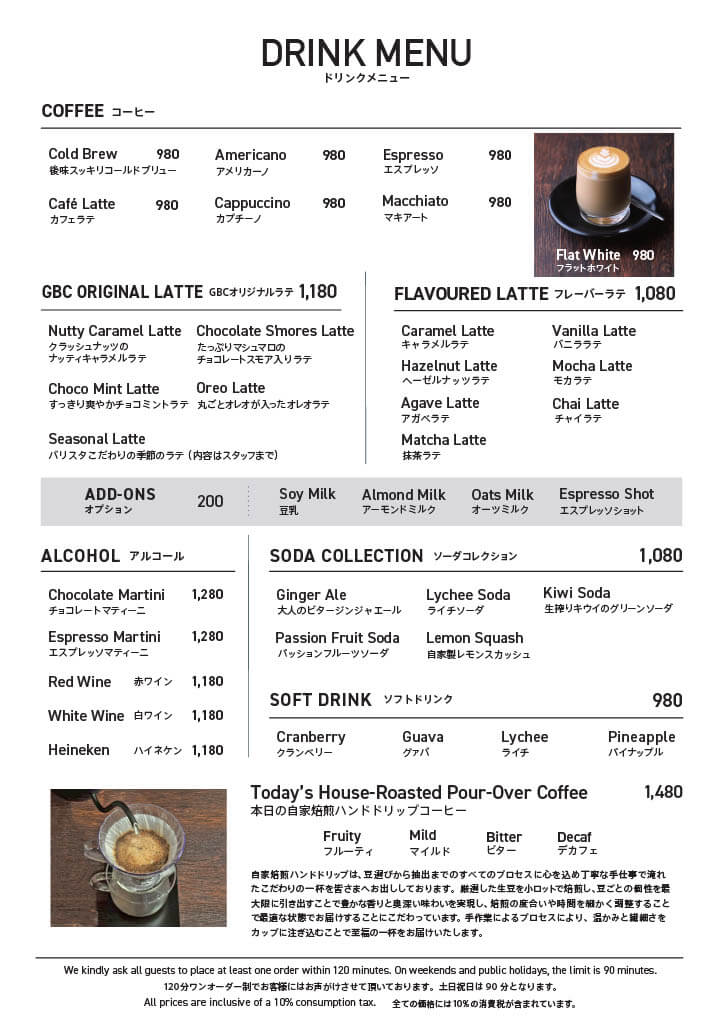
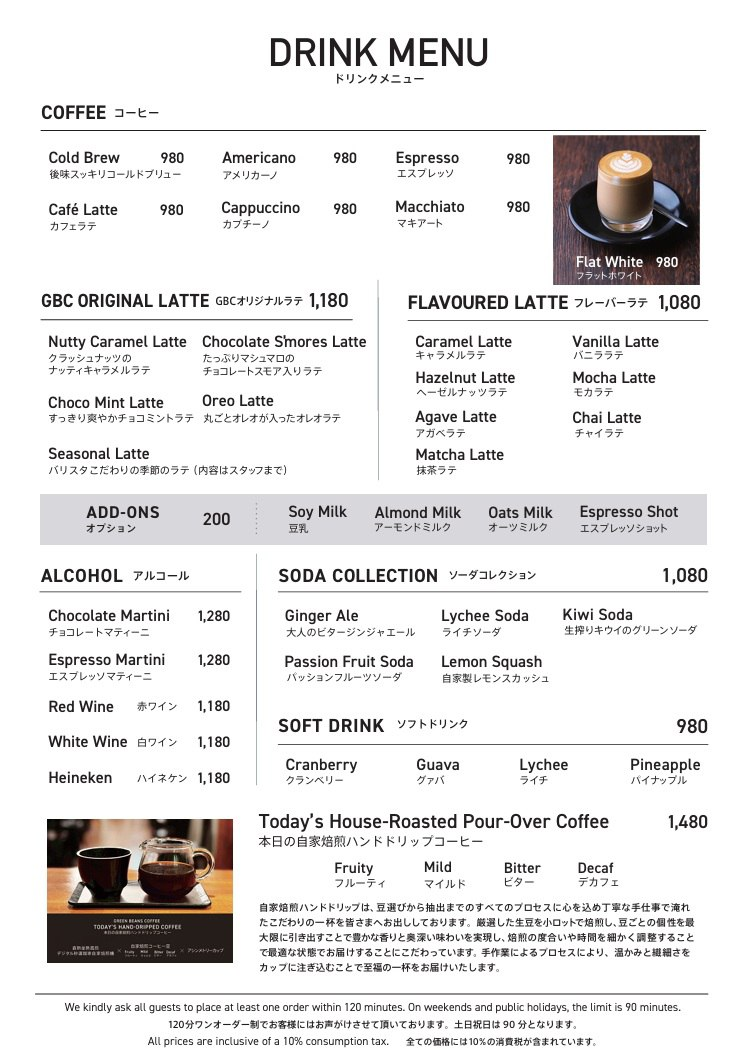
Refactor image naming: remove dates for easier monthly updates
- Rename event flyers to generic names (event-roasting.jpg, event-handdrip.jpg)
- Rename GBC Magazine images to position-based names (magazine-latest.jpg, magazine-back-01.jpg ~ magazine-back-06.jpg)
- Update HTML image paths to use new filenames
- Update menu page images (pages 1, 7, 8)
- Future updates only require file replacement, no HTML edits needed

diff --git a/public/index.html b/public/index.html
@@ -122,8 +122,8 @@
   <section id="hero" class="relative h-screen flex items-center justify-center overflow-hidden">
     <!-- Background Images with Auto-switching (2 layers for smooth transition) -->
     <div class="absolute inset-0 z-0">
-      <img id="hero-bg-1" src="/assets/images/hero_bg-1.jpg" alt="Green Beans Coffee 北参道のペットフレンドリーな店内 - 温かみのあるカフェ空間" class="absolute inset-0 w-full h-full object-cover transition-opacity duration-[4000ms] ease-in-out">
-      <img id="hero-bg-2" src="/assets/images/hero_bg-2.jpg" alt="Green Beans Coffee 自家焙煎コーヒー専門店の落ち着いた雰囲気" class="absolute inset-0 w-full h-full object-cover opacity-0 transition-opacity duration-[4000ms] ease-in-out">
+      <img id="hero-bg-1" src="/assets/images/hero_bg-1.jpg" alt="北参道・千駄ヶ谷にあるコーヒー専門店Green Beans Coffee。世界各国から厳選した約30種類のコーヒー豆を自家焙煎し、気分や好みに合わせた一杯を提供。落ち着いた空間で過ごせるサードプレイスとして親しまれています。" class="absolute inset-0 w-full h-full object-cover transition-opacity duration-[4000ms] ease-in-out">
+      <img id="hero-bg-2" src="/assets/images/hero_bg-2.jpg" alt="北参道・千駄ヶ谷のコーヒー専門店Green Beans Coffee。世界各国から厳選した30種類の豆を自家焙煎し、静かで温かみのある店内で提供。落ち着いた雰囲気の中、心を整えるサードプレイスとして親しまれています。" class="absolute inset-0 w-full h-full object-cover opacity-0 transition-opacity duration-[4000ms] ease-in-out">
       <div class="absolute inset-0 bg-black/40"></div>
     </div>
 
@@ -170,8 +170,8 @@
       <div class="grid md:grid-cols-2 gap-16 items-stretch">
         <!-- Left: Images -->
         <div data-aos="fade-right" class="flex flex-col gap-6">
-          <img src="/assets/images/about-shop-front.jpg" alt="Green Beans Coffee 店名看板のない店舗外観 - 北参道・千駄ヶ谷ダガヤサンドウエリアの隠れ家カフェ" class="w-full flex-1 rounded-lg shadow-lg object-cover" loading="lazy" decoding="async">
-          <img src="/assets/images/about-interior.jpg" alt="Green Beans Coffee ペットフレンドリーな温かみのある店内 - 自家焙煎コーヒーを楽しめる空間" class="w-full flex-1 rounded-lg shadow-lg object-cover" loading="lazy" decoding="async">
+          <img src="/assets/images/about-shop-front.jpg" alt="北参道・千駄ヶ谷の「ダガヤサンドウ」エリアに佇む、看板のない隠れ家カフェGreen Beans Coffee。静かな路地に溶け込む外観が特徴で、知る人ぞ知るコーヒー専門店として落ち着いた時間を提供しています。" class="w-full flex-1 rounded-lg shadow-lg object-cover" loading="lazy" decoding="async">
+          <img src="/assets/images/about-interior.jpg" alt="北参道・千駄ヶ谷のコーヒー専門店Green Beans Coffee。グルテンフリーランチを提供し、店内はペット同伴可能。落ち着いた空間で、愛犬と一緒に安心して食事と自家焙煎コーヒーを楽しめます。" class="w-full flex-1 rounded-lg shadow-lg object-cover" loading="lazy" decoding="async">
         </div>
 
         <!-- Right: Basic Info Table -->
@@ -315,7 +315,7 @@
       <div class="grid md:grid-cols-3 gap-10">
         <!-- Coffee Card -->
         <div class="bg-white rounded-lg shadow-lg overflow-hidden" data-aos="fade-up">
-          <img src="/assets/images/menu-coffee.jpg" alt="ハンドドリップコーヒー" class="w-full h-64 object-cover" loading="lazy" decoding="async">
+          <img src="/assets/images/menu-coffee.jpg" alt="北参道・千駄ヶ谷のコーヒー専門店Green Beans Coffee。自家焙煎コーヒーを一杯ずつ丁寧にハンドドリップで提供し、その日の気分や好みに合わせた味わいを楽しめます。学びと発見のある一杯が魅力です。" class="w-full h-64 object-cover" loading="lazy" decoding="async">
           <div class="p-6">
             <h3 class="text-2xl font-bold mb-4 text-primary">コーヒー</h3>
             
@@ -326,7 +326,7 @@
 
         <!-- Food Card -->
         <div class="bg-white rounded-lg shadow-lg overflow-hidden" data-aos="fade-up" data-aos-delay="100">
-          <img src="/assets/images/menu-focaccia.jpg" alt="グルテンフリーワンプレートランチ" class="w-full h-64 object-cover" loading="lazy" decoding="async">
+          <img src="/assets/images/menu-focaccia.jpg" alt="北参道・千駄ヶ谷のGreen Beans Coffeeでは、グルテンフリー対応のセレクトワンプレートランチを提供。体に優しい食材を使用し、栄養バランスにも配慮。自家焙煎コーヒーとともに安心して楽しめるランチです。" class="w-full h-64 object-cover" loading="lazy" decoding="async">
           <div class="p-6">
             <h3 class="text-2xl font-bold mb-4 text-primary">フード</h3>
             <p class="leading-relaxed">Green Beans Coffeeに来たらぜひ食べてほしいのがグルテンフリーワンプレートランチ。毎朝店内で焼いている米粉の自家製フォカッチャとサラダがついていて、メインとサイドディッシュを選べます。ランチ後は15時までドリンクメニューが半額で注文できるのもうれしい。</p>
@@ -335,7 +335,7 @@
 
         <!-- Sweets Card -->
         <div class="bg-white rounded-lg shadow-lg overflow-hidden" data-aos="fade-up" data-aos-delay="200">
-          <img src="/assets/images/menu-sweets.jpg" alt="スイーツ" class="w-full h-64 object-cover" loading="lazy" decoding="async">
+          <img src="/assets/images/menu-sweets.jpg" alt="北参道・千駄ヶ谷のGreen Beans Coffeeでは、自家製スイーツやグルテンフリー対応のスイーツメニューを提供。素材にこだわり、体に優しい甘さが特徴。自家焙煎コーヒーと相性の良いデザートが楽しめます。" class="w-full h-64 object-cover" loading="lazy" decoding="async">
           <div class="p-6">
             <h3 class="text-2xl font-bold mb-4 text-primary">スイーツ</h3>
             <p class="leading-relaxed">バリスタが丁寧に作る米粉のしっとりチョコブラウニー（グルテンフリー）、彩り豊かな自家製スイーツプレート、アップルパイのキャラメルアイス添え、北海道根釧地区の良質なミルクを使用したアイスデザートなど、こだわりのコーヒーと相性抜群の魅力的なスイーツが揃っています。</p>
@@ -406,7 +406,7 @@
       </button>
 
       <!-- Menu Image -->
-      <img id="menuModalImage" src="" alt="メニュー" class="w-full h-auto rounded-lg shadow-2xl">
+      <img id="menuModalImage" src="" alt="北参道・千駄ヶ谷のGreen Beans Coffeeのメニュー詳細" class="w-full h-auto rounded-lg shadow-2xl">
 
       <!-- Page Counter -->
       <div class="text-center mt-4 text-white">
@@ -472,9 +472,9 @@
         <div class="bg-background rounded-xl shadow-md p-8 md:p-10" data-aos="fade-up">
           <h3 class="text-lg md:text-2xl font-bold mb-8 text-primary text-center tracking-tight">焙煎体験イベント</h3>
 
-          <div class="flex flex-col xl:grid xl:grid-cols-3 gap-8 xl:items-start">
+          <div class="flex flex-col lg:grid lg:grid-cols-3 gap-8 lg:items-start">
             <!-- 説明文 -->
-            <div class="w-full xl:h-full flex flex-col">
+            <div class="w-full lg:h-full flex flex-col">
               <p class="text-base md:text-lg leading-relaxed">
                 Green Beans Coffeeで2025年から毎月開催されているイベント。30種類の豆から自分だけのオリジナルブレンドを作ることができます。焙煎機を使って自分の手で焙煎する体験はコーヒーへの愛着を一気に深めてくれます。<br><br>
                 参加者からは「選んだ豆が我が子のように可愛く思えた」「豆の香りに包まれて幸せだった」「カッコイイ焙煎機での体験が最高」といった声が寄せられているのが店内掲示物からわかります。<br><br>
@@ -483,10 +483,10 @@
             </div>
 
             <!-- イベントチラシ -->
-            <div class="w-full xl:h-full flex flex-col">
-              <img src="/assets/images/event-roasting-20260123.jpg" alt="焙煎体験イベントチラシ" class="w-full rounded-lg shadow-lg" loading="lazy" decoding="async">
+            <div class="w-full lg:h-full flex flex-col">
+              <img src="/assets/images/event-roasting.jpg" alt="北参道・千駄ヶ谷のGreen Beans Coffeeでは、店内に設置した焙煎機を使った焙煎体験イベントを開催。コーヒー豆が仕上がる工程を学びながら、体験型で楽しめるコーヒー専門店です。" class="w-full rounded-lg shadow-lg" loading="lazy" decoding="async">
               <!-- 装飾 - Desktop only -->
-              <div class="hidden xl:flex flex-1 items-end pb-4 mt-4">
+              <div class="hidden lg:flex flex-1 items-end pb-4 mt-4">
                 <div class="flex items-center justify-center gap-3 text-secondary opacity-40 w-full">
                   <svg xmlns="http://www.w3.org/2000/svg" width="24" height="24" viewBox="0 0 24 24" fill="none" stroke="currentColor" stroke-width="2" stroke-linecap="round" stroke-linejoin="round" class="lucide lucide-coffee"><path d="M10 2v2"/><path d="M14 2v2"/><path d="M16 8a1 1 0 0 1 1 1v8a4 4 0 0 1-4 4H7a4 4 0 0 1-4-4V9a1 1 0 0 1 1-1h14a4 4 0 1 1 0 8h-1"/><path d="M6 2v2"/></svg>
                   <div class="h-px bg-secondary flex-1 max-w-[80px]"></div>
@@ -498,9 +498,9 @@
             </div>
 
             <!-- YouTube動画 - Responsive aspect ratio -->
-            <div class="w-full xl:h-full flex flex-col">
+            <div class="w-full lg:h-full flex flex-col">
               <!-- タブレット/モバイル: サムネイル表示（クリックでモーダル） -->
-              <div class="xl:hidden relative w-full cursor-pointer group" style="padding-bottom: 56.25%;" onclick="openVideoModal('qnx6ruMMJgY', '焙煎体験イベント')">
+              <div class="lg:hidden relative w-full cursor-pointer group" style="padding-bottom: 56.25%;" onclick="openVideoModal('qnx6ruMMJgY', '焙煎体験イベント')">
                 <img src="https://img.youtube.com/vi/qnx6ruMMJgY/maxresdefault.jpg" alt="焙煎体験イベント動画サムネイル" class="absolute top-0 left-0 w-full h-full object-cover rounded-lg shadow-lg" loading="lazy" decoding="async">
                 <!-- 再生ボタンオーバーレイ -->
                 <div class="absolute inset-0 flex items-center justify-center">
@@ -512,7 +512,7 @@
                 </div>
               </div>
               <!-- デスクトップ: 9:16 -->
-              <div class="hidden xl:block relative w-full" style="padding-bottom: 177.78%; max-width: 315px; margin: 0 auto;">
+              <div class="hidden lg:block relative w-full" style="padding-bottom: 177.78%; max-width: 315px; margin: 0 auto;">
                 <iframe class="absolute top-0 left-0 w-full h-full rounded-lg shadow-lg" src="https://www.youtube.com/embed/qnx6ruMMJgY" title="焙煎体験イベント" frameborder="0" allow="accelerometer; autoplay; clipboard-write; encrypted-media; gyroscope; picture-in-picture; web-share" allowfullscreen loading="lazy"></iframe>
               </div>
             </div>
@@ -523,9 +523,9 @@
         <div class="bg-background rounded-xl shadow-md p-8 md:p-10" data-aos="fade-up">
           <h3 class="text-lg md:text-2xl font-bold mb-8 text-primary text-center tracking-tight">ハンドドリップ体験イベント</h3>
 
-          <div class="flex flex-col xl:grid xl:grid-cols-3 gap-8 xl:items-start">
+          <div class="flex flex-col lg:grid lg:grid-cols-3 gap-8 lg:items-start">
             <!-- 説明文 -->
-            <div class="w-full xl:h-full flex flex-col">
+            <div class="w-full lg:h-full flex flex-col">
               <p class="text-base md:text-lg leading-relaxed">
                 先日実際にこちらに参加してきました。バリスタの方が丁寧に教えてくれるので、初めてでも楽しくマスターできる内容です。お湯の温度や注ぎ方、抽出時間の違いで味がどう変わるか、実際に淹れながら体感できる点が良かったです。<br><br>
                 特に印象的だったのは友人と同じ豆で淹れたコーヒーを飲み比べた時間です。ほんの少しの淹れ方の違いで味わいが変わることに驚きました。豆の個性だけでなく淹れ手の個性まで表れるコーヒーの奥深さを実感できる体験でした。<br><br>
@@ -534,10 +534,10 @@
             </div>
 
             <!-- イベントチラシ -->
-            <div class="w-full xl:h-full flex flex-col">
-              <img src="/assets/images/event-handdrip-20260116.jpg" alt="ハンドドリップ体験イベントチラシ" class="w-full rounded-lg shadow-lg" loading="lazy" decoding="async">
+            <div class="w-full lg:h-full flex flex-col">
+              <img src="/assets/images/event-handdrip.jpg" alt="北参道・千駄ヶ谷のGreen Beans Coffeeでは、ハンドドリップによるコーヒーの淹れ方を体験しながら学べます。抽出の違いや味の変化を楽しめる、知識と発見のあるコーヒー体験が魅力です。" class="w-full rounded-lg shadow-lg" loading="lazy" decoding="async">
               <!-- 装飾 - Desktop only -->
-              <div class="hidden xl:flex flex-1 items-end pb-4 mt-4">
+              <div class="hidden lg:flex flex-1 items-end pb-4 mt-4">
                 <div class="flex items-center justify-center gap-3 text-secondary opacity-40 w-full">
                   <svg xmlns="http://www.w3.org/2000/svg" width="24" height="24" viewBox="0 0 24 24" fill="none" stroke="currentColor" stroke-width="2" stroke-linecap="round" stroke-linejoin="round" class="lucide lucide-coffee"><path d="M10 2v2"/><path d="M14 2v2"/><path d="M16 8a1 1 0 0 1 1 1v8a4 4 0 0 1-4 4H7a4 4 0 0 1-4-4V9a1 1 0 0 1 1-1h14a4 4 0 1 1 0 8h-1"/><path d="M6 2v2"/></svg>
                   <div class="h-px bg-secondary flex-1 max-w-[80px]"></div>
@@ -549,9 +549,9 @@
             </div>
 
             <!-- YouTube動画 - Responsive aspect ratio -->
-            <div class="w-full xl:h-full flex flex-col">
+            <div class="w-full lg:h-full flex flex-col">
               <!-- タブレット/モバイル: サムネイル表示（クリックでモーダル） -->
-              <div class="xl:hidden relative w-full cursor-pointer group" style="padding-bottom: 56.25%;" onclick="openVideoModal('QX1qbnKiYYg', 'ハンドドリップ体験イベント')">
+              <div class="lg:hidden relative w-full cursor-pointer group" style="padding-bottom: 56.25%;" onclick="openVideoModal('QX1qbnKiYYg', 'ハンドドリップ体験イベント')">
                 <img src="https://img.youtube.com/vi/QX1qbnKiYYg/maxresdefault.jpg" alt="ハンドドリップ体験イベント動画サムネイル" class="absolute top-0 left-0 w-full h-full object-cover rounded-lg shadow-lg" loading="lazy" decoding="async">
                 <!-- 再生ボタンオーバーレイ -->
                 <div class="absolute inset-0 flex items-center justify-center">
@@ -563,7 +563,7 @@
                 </div>
               </div>
               <!-- デスクトップ: 9:16 -->
-              <div class="hidden xl:block relative w-full" style="padding-bottom: 177.78%; max-width: 315px; margin: 0 auto;">
+              <div class="hidden lg:block relative w-full" style="padding-bottom: 177.78%; max-width: 315px; margin: 0 auto;">
                 <iframe class="absolute top-0 left-0 w-full h-full rounded-lg shadow-lg" src="https://www.youtube.com/embed/QX1qbnKiYYg" title="ハンドドリップ体験イベント" frameborder="0" allow="accelerometer; autoplay; clipboard-write; encrypted-media; gyroscope; picture-in-picture; web-share" allowfullscreen loading="lazy"></iframe>
               </div>
             </div>
@@ -578,9 +578,9 @@
           Green Beans Coffeeに行くとペット連れのお客さんをよく見かけます。店内にペットと一緒に入れるカフェってあまりないですよね。しかもここはペットOKなだけじゃなくてペットと一緒に来店したらチェキで撮影して店内の掲示板に飾ってくれます。ペット撮影会が定期的に開催されていて店内のチェキブースを見るとたくさんのペットちゃんの写真が貼られています。愛犬と一緒にゆっくりコーヒーを楽しみたい人にはぜひ一度訪れてほしい場所です。
         </p>
         <div class="grid grid-cols-1 sm:grid-cols-2 md:grid-cols-3 gap-8">
-          <img src="/assets/images/experience-pet-2.jpg" alt="ペットフレンドリー2" class="w-full h-80 md:h-96 object-cover rounded-lg shadow-lg" loading="lazy" decoding="async" data-aos="fade-up">
-          <img src="/assets/images/experience-pet-1.jpg" alt="ペットフレンドリー1" class="w-full h-80 md:h-96 object-cover rounded-lg shadow-lg" loading="lazy" decoding="async" data-aos="fade-up" data-aos-delay="150">
-          <img src="/assets/images/experience-pet-3.jpg" alt="ペットフレンドリー3" class="w-full h-80 md:h-96 object-cover rounded-lg shadow-lg" loading="lazy" decoding="async" data-aos="fade-up" data-aos-delay="300">
+          <img src="/assets/images/experience-pet-2.jpg" alt="北参道・千駄ヶ谷のGreen Beans Coffeeは、店内ペット同伴可能なペットフレンドリーカフェ。落ち着いたサードプレイス空間で、愛犬と一緒に自家焙煎コーヒーをゆったり楽しめます。ペット撮影会イベントも定期的に開催。" class="w-full h-80 md:h-96 object-cover rounded-lg shadow-lg" loading="lazy" decoding="async" data-aos="fade-up">
+          <img src="/assets/images/experience-pet-1.jpg" alt="北参道・千駄ヶ谷のGreen Beans Coffeeは、店内ペット同伴可能なペットフレンドリーカフェ。落ち着いたサードプレイス空間で、愛犬と一緒に自家焙煎コーヒーをゆったり楽しめます。" class="w-full h-80 md:h-96 object-cover rounded-lg shadow-lg" loading="lazy" decoding="async" data-aos="fade-up" data-aos-delay="150">
+          <img src="/assets/images/experience-pet-3.jpg" alt="北参道・千駄ヶ谷のGreen Beans Coffeeは、店内ペット同伴可能なペットフレンドリーカフェ。来店してくれたペットちゃん達が見れるたチェキブース。" class="w-full h-80 md:h-96 object-cover rounded-lg shadow-lg" loading="lazy" decoding="async" data-aos="fade-up" data-aos-delay="300">
         </div>
       </div>
 
@@ -705,9 +705,9 @@
 
         <!-- Diary Entry #4 -->
         <div class="bg-background p-6 rounded-lg shadow" data-aos="fade-up">
-          <h3 class="text-xl font-bold mb-2 text-primary">訪問記 #4 | 2023年5月5日:<br class="sm:hidden"> 姪っ子を熱烈なGBCファンにしたグリルチキンソテー</h3>
+          <h3 class="text-xl font-bold mb-2 text-primary">訪問記 #4 | 2023年5月5日:<br class="sm:hidden"> 姪っ子を熱烈なGBCファンにしたグリルチキン</h3>
           <p class="leading-relaxed">
-            地元から妹と姪っ子が上京してきたのでグリーンビーンズコーヒーに連れて行きました。姪っ子はこの日食べたグリルチキンソテーがものすごく気に入ったようで、私が地元に帰る度に「グリーンビーンズにまた行きたい」と口癖のように言うようになりました。その後、推しのイベントで上京するとGreen Beans Coffeeに行ってはグルテンフリーワンプレートランチのグリルチキンソテーを食べているとのこと。おそらくGreen Beans Coffeeの常連さんの中では一番遠いところから通っているファンだと思います。
+            地元から妹と姪っ子が上京してきたのでグリーンビーンズコーヒーに連れて行きました。姪っ子はこの日食べたグリルチキンがものすごく気に入ったようで、私が地元に帰る度に「グリーンビーンズにまた行きたい」と口癖のように言うようになりました。その後、推しのイベントで上京するとGreen Beans Coffeeに行ってはグルテンフリーワンプレートランチのグリルチキンを食べているとのこと。おそらくGreen Beans Coffeeの常連さんの中では一番遠いところから通っているファンだと思います。
           </p>
         </div>
 
@@ -742,8 +742,8 @@
       <!-- Latest Issue -->
       <div class="w-full max-w-2xl mx-auto mb-16 px-4 sm:px-0" data-aos="zoom-in">
         <h3 class="text-2xl font-bold mb-4 text-center text-primary">最新号: 2026年1月</h3>
-        <div class="relative group cursor-pointer" onclick="openModal('/assets/images/GBCMagagine_202601.jpg')">
-          <img src="/assets/images/GBCMagagine_202601.jpg" alt="GBCマガジン2026年1月号" class="w-full rounded-lg shadow-lg group-hover:shadow-xl transition-all duration-300 group-hover:scale-105" loading="lazy" decoding="async">
+        <div class="relative group cursor-pointer" onclick="openModal('/assets/images/magazine-latest.jpg')">
+          <img src="/assets/images/magazine-latest.jpg" alt="北参道・千駄ヶ谷のGreen Beans Coffeeでは、地域密着型の月刊誌「GBCマガジン」を制作。店内掲示のフリーペーパーとして無料配布し、地域情報やコーヒー文化を発信しています。こちらが最新号です。" class="w-full rounded-lg shadow-lg group-hover:shadow-xl transition-all duration-300 group-hover:scale-105" loading="lazy" decoding="async">
           <!-- Hover Overlay with Zoom Icon -->
           <div class="absolute inset-0 bg-black/0 group-hover:bg-black/20 transition-all duration-300 rounded-lg flex items-center justify-center">
             <svg xmlns="http://www.w3.org/2000/svg" width="64" height="64" viewBox="0 0 24 24" fill="none" stroke="white" stroke-width="2" stroke-linecap="round" stroke-linejoin="round" class="opacity-0 group-hover:opacity-100 transition-opacity duration-300">
@@ -761,8 +761,8 @@
       <div class="max-w-4xl mx-auto">
         <h3 class="text-xl font-bold mb-6 text-center text-primary">バックナンバー</h3>
         <div class="grid grid-cols-2 sm:grid-cols-2 md:grid-cols-3 gap-4">
-          <div class="relative group cursor-pointer" onclick="openModal('/assets/images/GBCMagagine_202512.jpg')">
-            <img src="/assets/images/GBCMagagine_202512.jpg" alt="2025年12月号" class="w-full rounded shadow group-hover:shadow-lg transition-all duration-300 group-hover:scale-105" loading="lazy" decoding="async">
+          <div class="relative group cursor-pointer" onclick="openModal('/assets/images/magazine-back-01.jpg')">
+            <img src="/assets/images/magazine-back-01.jpg" alt="北参道・千駄ヶ谷のGreen Beans Coffeeが発行する「GBCマガジン」では、コーヒー情報をはじめ、健康・美容に役立つ内容や店舗・地域のイベント情報を掲載。店内で無料配布しています。" class="w-full rounded shadow group-hover:shadow-lg transition-all duration-300 group-hover:scale-105" loading="lazy" decoding="async">
             <div class="absolute inset-0 bg-black/0 group-hover:bg-black/20 transition-all duration-300 rounded flex items-center justify-center">
               <svg xmlns="http://www.w3.org/2000/svg" width="48" height="48" viewBox="0 0 24 24" fill="none" stroke="white" stroke-width="2" stroke-linecap="round" stroke-linejoin="round" class="opacity-0 group-hover:opacity-100 transition-opacity duration-300">
                 <circle cx="11" cy="11" r="8"></circle>
@@ -772,8 +772,8 @@
               </svg>
             </div>
           </div>
-          <div class="relative group cursor-pointer" onclick="openModal('/assets/images/GBCMagagine_202511.jpg')">
-            <img src="/assets/images/GBCMagagine_202511.jpg" alt="2025年11月号" class="w-full rounded shadow group-hover:shadow-lg transition-all duration-300 group-hover:scale-105" loading="lazy" decoding="async">
+          <div class="relative group cursor-pointer" onclick="openModal('/assets/images/magazine-back-02.jpg')">
+            <img src="/assets/images/magazine-back-02.jpg" alt="北参道・千駄ヶ谷のGreen Beans Coffeeが制作する月刊誌「GBCマガジン」。地域密着情報やイベント情報を掲載したフリーペーパーとして、店内で無料配布し、街と人をつなぐ情報発信を行っています。" class="w-full rounded shadow group-hover:shadow-lg transition-all duration-300 group-hover:scale-105" loading="lazy" decoding="async">
             <div class="absolute inset-0 bg-black/0 group-hover:bg-black/20 transition-all duration-300 rounded flex items-center justify-center">
               <svg xmlns="http://www.w3.org/2000/svg" width="48" height="48" viewBox="0 0 24 24" fill="none" stroke="white" stroke-width="2" stroke-linecap="round" stroke-linejoin="round" class="opacity-0 group-hover:opacity-100 transition-opacity duration-300">
                 <circle cx="11" cy="11" r="8"></circle>
@@ -783,8 +783,8 @@
               </svg>
             </div>
           </div>
-          <div class="relative group cursor-pointer" onclick="openModal('/assets/images/GBCMagagine_202510.jpg')">
-            <img src="/assets/images/GBCMagagine_202510.jpg" alt="2025年10月号" class="w-full rounded shadow group-hover:shadow-lg transition-all duration-300 group-hover:scale-105" loading="lazy" decoding="async">
+          <div class="relative group cursor-pointer" onclick="openModal('/assets/images/magazine-back-03.jpg')">
+            <img src="/assets/images/magazine-back-03.jpg" alt="北参道・千駄ヶ谷のGreen Beans Coffeeが制作する月刊誌「GBCマガジン」。コーヒーの健康効果やおすすめのコーヒーをコーヒー専門店の立場から情報発信しています。" class="w-full rounded shadow group-hover:shadow-lg transition-all duration-300 group-hover:scale-105" loading="lazy" decoding="async">
             <div class="absolute inset-0 bg-black/0 group-hover:bg-black/20 transition-all duration-300 rounded flex items-center justify-center">
               <svg xmlns="http://www.w3.org/2000/svg" width="48" height="48" viewBox="0 0 24 24" fill="none" stroke="white" stroke-width="2" stroke-linecap="round" stroke-linejoin="round" class="opacity-0 group-hover:opacity-100 transition-opacity duration-300">
                 <circle cx="11" cy="11" r="8"></circle>
@@ -794,8 +794,8 @@
               </svg>
             </div>
           </div>
-          <div class="relative group cursor-pointer" onclick="openModal('/assets/images/GBCMagagine_202509.jpg')">
-            <img src="/assets/images/GBCMagagine_202509.jpg" alt="2025年9月号" class="w-full rounded shadow group-hover:shadow-lg transition-all duration-300 group-hover:scale-105" loading="lazy" decoding="async">
+          <div class="relative group cursor-pointer" onclick="openModal('/assets/images/magazine-back-04.jpg')">
+            <img src="/assets/images/magazine-back-04.jpg" alt="2025年9月号" class="w-full rounded shadow group-hover:shadow-lg transition-all duration-300 group-hover:scale-105" loading="lazy" decoding="async">
             <div class="absolute inset-0 bg-black/0 group-hover:bg-black/20 transition-all duration-300 rounded flex items-center justify-center">
               <svg xmlns="http://www.w3.org/2000/svg" width="48" height="48" viewBox="0 0 24 24" fill="none" stroke="white" stroke-width="2" stroke-linecap="round" stroke-linejoin="round" class="opacity-0 group-hover:opacity-100 transition-opacity duration-300">
                 <circle cx="11" cy="11" r="8"></circle>
@@ -805,8 +805,8 @@
               </svg>
             </div>
           </div>
-          <div class="relative group cursor-pointer" onclick="openModal('/assets/images/GBCMagagine_202508.jpg')">
-            <img src="/assets/images/GBCMagagine_202508.jpg" alt="2025年8月号" class="w-full rounded shadow group-hover:shadow-lg transition-all duration-300 group-hover:scale-105" loading="lazy" decoding="async">
+          <div class="relative group cursor-pointer" onclick="openModal('/assets/images/magazine-back-05.jpg')">
+            <img src="/assets/images/magazine-back-05.jpg" alt="北参道・千駄ヶ谷のGreen Beans Coffeeの月刊フリーペーパー「GBCマガジン」。ダガヤサンドウの季節のおすすめスポット情報も盛り込んだ内容です。" class="w-full rounded shadow group-hover:shadow-lg transition-all duration-300 group-hover:scale-105" loading="lazy" decoding="async">
             <div class="absolute inset-0 bg-black/0 group-hover:bg-black/20 transition-all duration-300 rounded flex items-center justify-center">
               <svg xmlns="http://www.w3.org/2000/svg" width="48" height="48" viewBox="0 0 24 24" fill="none" stroke="white" stroke-width="2" stroke-linecap="round" stroke-linejoin="round" class="opacity-0 group-hover:opacity-100 transition-opacity duration-300">
                 <circle cx="11" cy="11" r="8"></circle>
@@ -816,8 +816,8 @@
               </svg>
             </div>
           </div>
-          <div class="relative group cursor-pointer" onclick="openModal('/assets/images/GBCMagagine_202507.jpg')">
-            <img src="/assets/images/GBCMagagine_202507.jpg" alt="2025年7月号" class="w-full rounded shadow group-hover:shadow-lg transition-all duration-300 group-hover:scale-105" loading="lazy" decoding="async">
+          <div class="relative group cursor-pointer" onclick="openModal('/assets/images/magazine-back-06.jpg')">
+            <img src="/assets/images/magazine-back-06.jpg" alt="北参道・千駄ヶ谷のGreen Beans Coffeeの月刊フリーペーパー「GBCマガジン」。コーヒー情報だけでなく店内で定期的に開催される体験イベントの様子など写真付きで掲載している楽しい月刊誌です。" class="w-full rounded shadow group-hover:shadow-lg transition-all duration-300 group-hover:scale-105" loading="lazy" decoding="async">
             <div class="absolute inset-0 bg-black/0 group-hover:bg-black/20 transition-all duration-300 rounded flex items-center justify-center">
               <svg xmlns="http://www.w3.org/2000/svg" width="48" height="48" viewBox="0 0 24 24" fill="none" stroke="white" stroke-width="2" stroke-linecap="round" stroke-linejoin="round" class="opacity-0 group-hover:opacity-100 transition-opacity duration-300">
                 <circle cx="11" cy="11" r="8"></circle>
@@ -966,7 +966,7 @@
             </svg>
           </summary>
           <div class="p-4 pt-0 text-text">
-            <p>私のおすすめはハンドドリップコーヒー。バリスタさんにその日の気分を伝えるとぴったりの一杯を選んでくれます。左右で厚みが違うアシンメトリーカップを試せるのも魅力。フードならグルテンフリーワンプレートランチ。メインとサイドディッシュとソースが選べますがメインのおすすめはグリルチキンソテー。皮がパリパリで病みつきです。</p>
+            <p>私のおすすめはハンドドリップコーヒー。バリスタさんにその日の気分を伝えるとぴったりの一杯を選んでくれます。左右で厚みが違うアシンメトリーカップを試せるのも魅力。フードならグルテンフリーワンプレートランチ。メインとサイドディッシュとソースが選べますがメインのおすすめはグリルチキン。皮がパリパリで病みつきです。</p>
           </div>
         </details>
 
@@ -1351,7 +1351,7 @@
         "name": "おすすめメニューは何ですか？",
         "acceptedAnswer": {
           "@type": "Answer",
-          "text": "私のおすすめはハンドドリップコーヒー。バリスタさんにその日の気分を伝えるとぴったりの一杯を選んでくれます。左右で厚みが違うアシンメトリーカップを試せるのも魅力。フードならグルテンフリーワンプレートランチ。メインとサイドディッシュとソースが選べますがメインのおすすめはグリルチキンソテー。皮がパリパリで病みつきです。"
+          "text": "私のおすすめはハンドドリップコーヒー。バリスタさんにその日の気分を伝えるとぴったりの一杯を選んでくれます。左右で厚みが違うアシンメトリーカップを試せるのも魅力。フードならグルテンフリーワンプレートランチ。メインとサイドディッシュとソースが選べますがメインのおすすめはグリルチキン。皮がパリパリで病みつきです。"
         }
       },
       {
